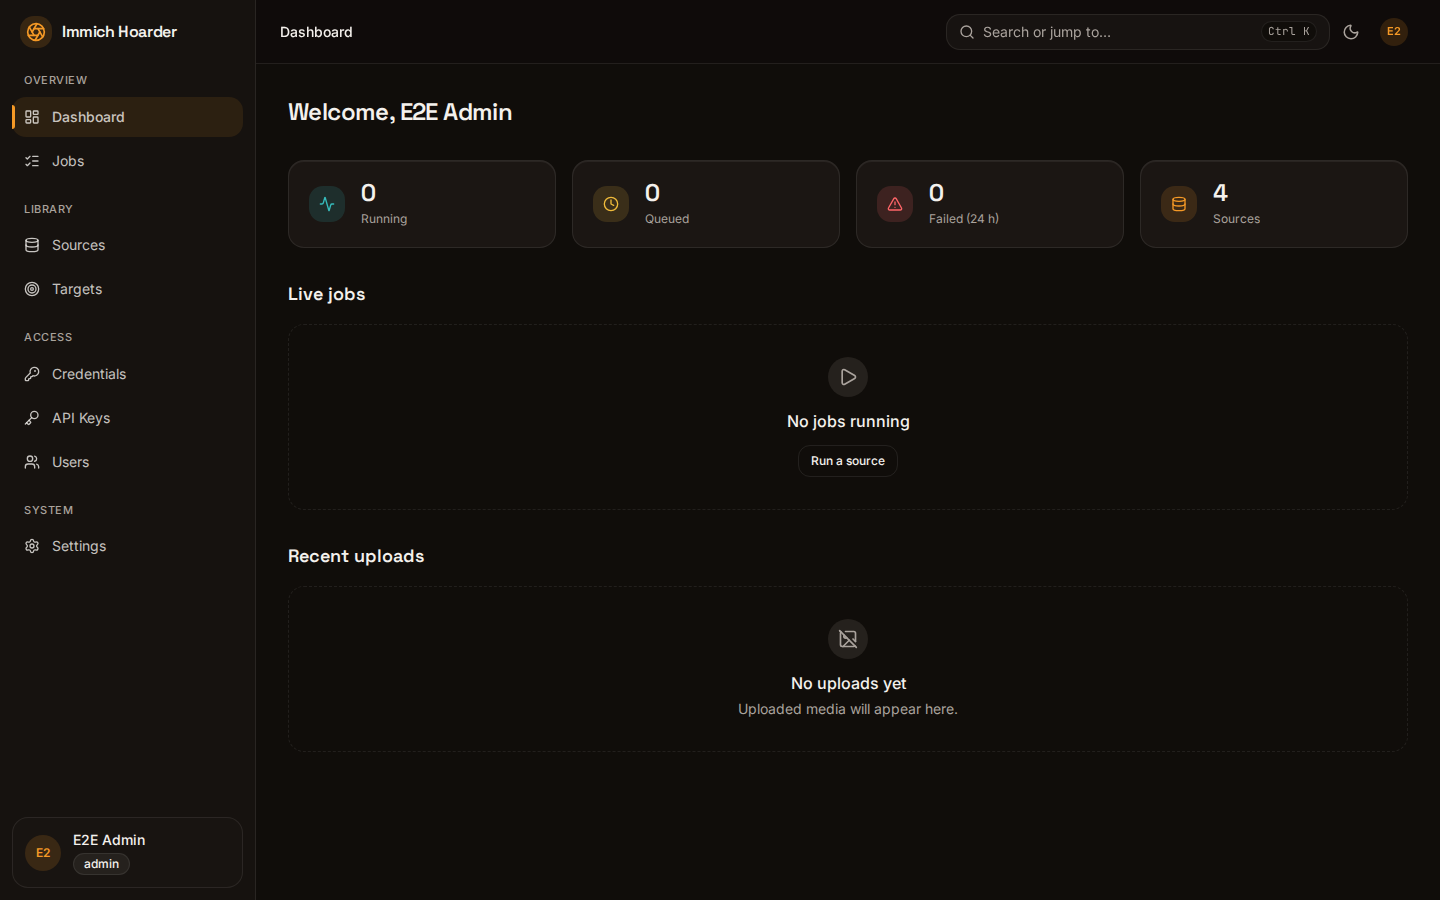
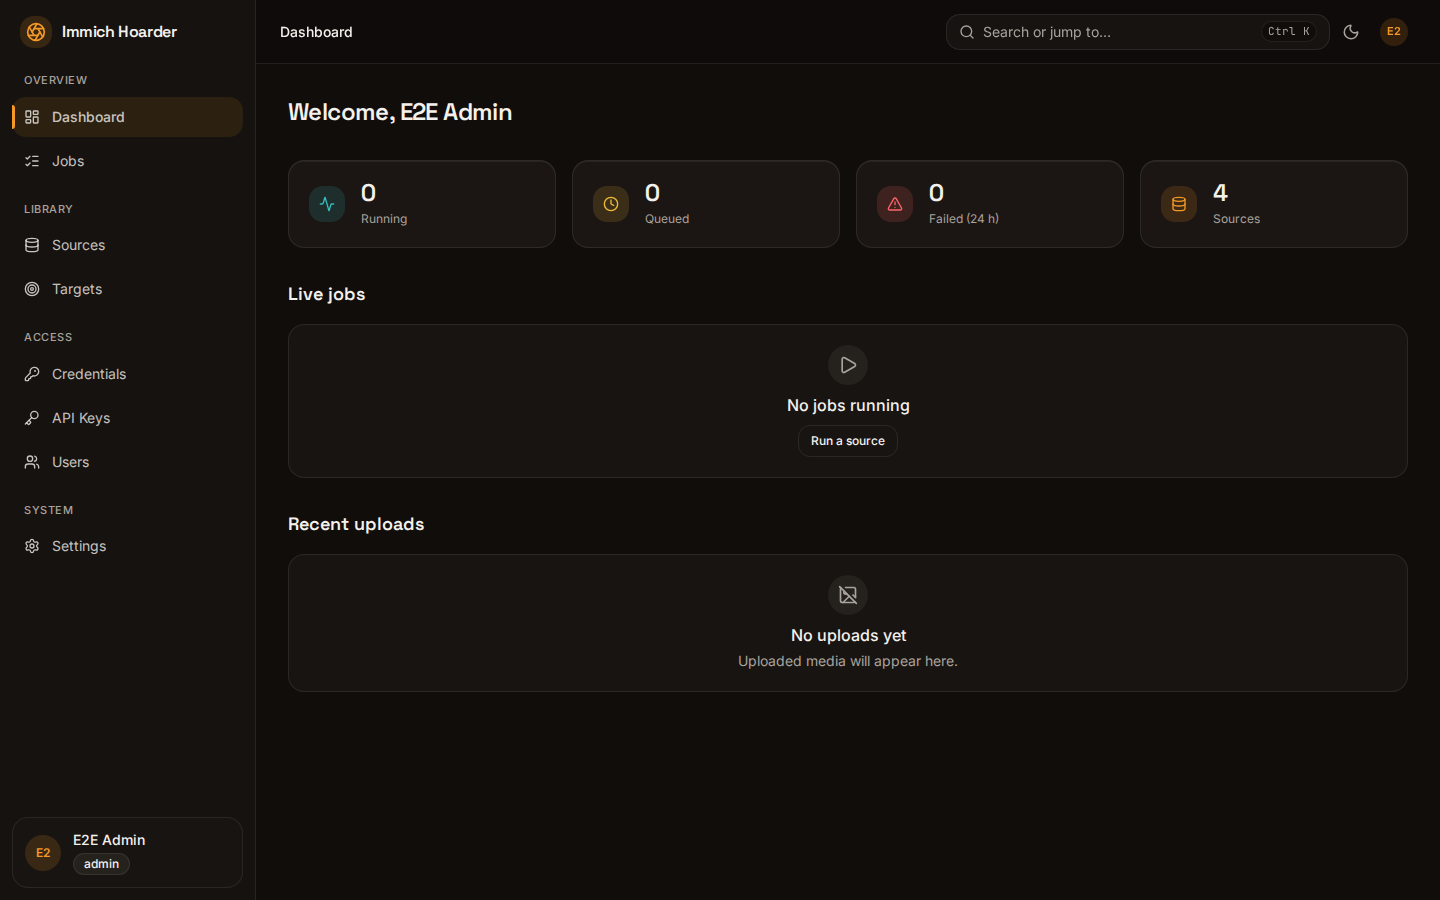
fix(ui): switch, table alignment and mobile polish

Changed region(s): [[0.5, 0.6533, 0.6562, 0.8089], [0.5312, 0.4044, 0.625, 0.5289], [0.1875, 0.56, 0.3125, 0.6222]]

diff --git a/frontend/src/components/common/VirtualTable.tsx b/frontend/src/components/common/VirtualTable.tsx
@@ -80,25 +80,25 @@ export function VirtualTable<T>({
   return (
     <div className={cn("overflow-x-auto", !mobile && "rounded-xl border bg-card")}>
       <div role="table" aria-label={label} aria-rowcount={mobile ? rows.length : rows.length + 1} className={cn("flex min-h-0 flex-col", !mobile && minWidth)}>
-        {!mobile && (
-          <div role="rowgroup" className="sticky top-0 z-10 overflow-y-hidden border-b bg-muted [scrollbar-gutter:stable]">
-            <div role="row" className="grid gap-3 px-4 py-3 text-xs font-medium text-muted-foreground" style={{ gridTemplateColumns: template }}>
-              {cols.map((c) => (
-                <div key={c.id} role="columnheader" className="min-w-0 truncate">
-                  {c.header}
-                </div>
-              ))}
+        <div ref={scrollRef} role="rowgroup" className="min-h-0 flex-1 overflow-y-auto max-h-[calc(100dvh-14rem)]">
+          {!mobile && (
+            <div role="rowgroup" className="sticky top-0 z-10 border-b bg-muted">
+              <div role="row" className="grid gap-3 px-4 py-3 text-xs font-medium text-muted-foreground" style={{ gridTemplateColumns: template }}>
+                {cols.map((c) => (
+                  <div key={c.id} role="columnheader" className="min-w-0 truncate">
+                    {c.header}
+                  </div>
+                ))}
+              </div>
             </div>
-          </div>
-        )}
-        <div ref={scrollRef} role="rowgroup" className="min-h-0 flex-1 overflow-y-auto [scrollbar-gutter:stable] max-h-[calc(100dvh-14rem)]">
+          )}
           <div style={{ height: v.getTotalSize(), position: "relative" }}>
             {items.map((vi) => {
               const r = rows[vi.index];
               if (r === undefined) return null;
               const pos = { position: "absolute", top: 0, left: 0, width: "100%", transform: `translateY(${vi.start}px)` } as const;
               return mobile ? (
-                <div key={getRowId(r)} role="row" aria-rowindex={vi.index + 1} data-index={vi.index} ref={v.measureElement} style={pos} className="p-1.5">
+                <div key={getRowId(r)} role="row" aria-rowindex={vi.index + 1} data-index={vi.index} ref={v.measureElement} style={pos} className="pb-3">
                   <div
                     className={cn("flex flex-col gap-2 rounded-lg border bg-background p-4 text-sm", onRowClick && "cursor-pointer focus-visible:outline-2 focus-visible:outline-ring")}
                     {...clickable(r)}

diff --git a/frontend/src/features/sources/SourcesPage.tsx b/frontend/src/features/sources/SourcesPage.tsx
@@ -144,13 +144,13 @@ export default function SourcesPage() {
   }, [q.rows, filter]);
 
   const columns: Column<SourceOut>[] = [
-    { id: "name", header: "Name", cell: (s) => <Truncate className="font-medium">{s.name}</Truncate>, width: "minmax(0,1.2fr)" },
-    { id: "ext", header: "Extractor", cell: (s) => <Badge className="font-mono">{s.extractor}</Badge>, width: "8rem" },
+    { id: "name", header: "Name", cell: (s) => <Truncate className="font-medium">{s.name}</Truncate>, width: "minmax(16rem,2fr)" },
+    { id: "ext", header: "Extractor", cell: (s) => <Badge className="font-mono">{s.extractor}</Badge>, width: "7rem" },
     { id: "target", header: "Target", cell: (s) => <Truncate>{targetName.get(s.target_id) ?? `Target #${s.target_id}`}</Truncate>, width: "minmax(0,1fr)", hideBelow: "md" },
     { id: "sched", header: "Schedule", cell: (s) => <Schedule cron={s.schedule_cron} />, width: "minmax(0,1fr)" },
     { id: "enabled", header: "Enabled", cell: (s) => <EnabledSwitch s={s} />, width: "6rem" },
-    { id: "vis", header: "Visibility", cell: (s) => <VisibilityBadge visibility={s.visibility} />, width: "8rem" },
-    { id: "actions", header: "Actions", cell: (s) => <Actions s={s} />, width: "9rem" },
+    { id: "vis", header: "Visibility", cell: (s) => <VisibilityBadge visibility={s.visibility} />, width: "7rem" },
+    { id: "actions", header: "Actions", cell: (s) => <Actions s={s} />, width: "8rem" },
   ];
 
   return (
@@ -159,7 +159,7 @@ export default function SourcesPage() {
         title="Sources"
         actions={
           <>
-            <div className="relative">
+            <div className="relative w-full sm:w-auto">
               <Search className="pointer-events-none absolute left-3 top-1/2 size-4 -translate-y-1/2 text-muted-foreground" aria-hidden />
               <Input
                 data-page-search

diff --git a/frontend/src/components/ui/switch.tsx b/frontend/src/components/ui/switch.tsx
@@ -6,12 +6,12 @@ export function Switch({ className, ...p }: ComponentProps<typeof S.Root>) {
   return (
     <S.Root
       className={cn(
-        "peer inline-flex h-5 w-9 shrink-0 items-center rounded-full border border-transparent bg-input transition-colors focus-visible:outline-2 focus-visible:outline-offset-2 focus-visible:outline-ring disabled:opacity-50 data-[state=checked]:bg-primary",
+        "peer inline-flex h-5 w-9 shrink-0 items-center rounded-full border border-border bg-muted transition-colors focus-visible:outline-2 focus-visible:outline-offset-2 focus-visible:outline-ring disabled:opacity-50 data-[state=checked]:border-transparent data-[state=checked]:bg-primary",
         className,
       )}
       {...p}
     >
-      <S.Thumb className="block size-4 translate-x-0.5 rounded-full bg-foreground shadow transition-transform data-[state=checked]:translate-x-[18px] data-[state=checked]:bg-primary-foreground" />
+      <S.Thumb className="block size-4 translate-x-0.5 rounded-full bg-white shadow-sm ring-1 ring-black/10 transition-transform data-[state=checked]:translate-x-[18px]" />
     </S.Root>
   );
 }

diff --git a/frontend/src/components/common/EmptyState.tsx b/frontend/src/components/common/EmptyState.tsx
@@ -3,7 +3,7 @@ import { Inbox } from "lucide-react";
 
 export function EmptyState({ title, hint, action, icon }: { title: string; hint?: string; action?: ReactNode; icon?: ReactNode }) {
   return (
-    <div className="flex flex-col items-center gap-3 rounded-xl border border-dashed p-8 text-center">
+    <div className="flex flex-col items-center gap-2 rounded-xl border bg-muted/40 p-5 text-center">
       <span aria-hidden className="grid size-10 place-items-center rounded-full bg-muted text-muted-foreground [&_svg]:size-5">
         {icon ?? <Inbox />}
       </span>

diff --git a/frontend/src/features/jobs/ItemsTable.tsx b/frontend/src/features/jobs/ItemsTable.tsx
@@ -80,7 +80,7 @@ export function ItemsTable({ jobId, hostTargetId, live }: { jobId: number; hostT
         onEndReached={() => {
           if (q.hasNextPage && !q.isFetchingNextPage) void q.fetchNextPage();
         }}
-        empty={<p className="rounded-xl border border-dashed p-8 text-center text-sm text-muted-foreground">No items yet.</p>}
+        empty={<p className="rounded-xl border bg-muted/40 p-5 text-center text-sm text-muted-foreground">No items yet.</p>}
       />
     </section>
   );

diff --git a/frontend/src/components/ui/page.tsx b/frontend/src/components/ui/page.tsx
@@ -22,7 +22,7 @@ export function PageHeader({
         <h1 className="font-display text-2xl font-semibold tracking-tight">{title}</h1>
         {description ? <p className="mt-1 text-sm text-muted-foreground">{description}</p> : null}
       </div>
-      {actions ? <div className="flex flex-wrap items-center gap-2">{actions}</div> : null}
+      {actions ? <div className="flex w-full flex-wrap items-center gap-2 sm:w-auto">{actions}</div> : null}
     </div>
   );
 }
